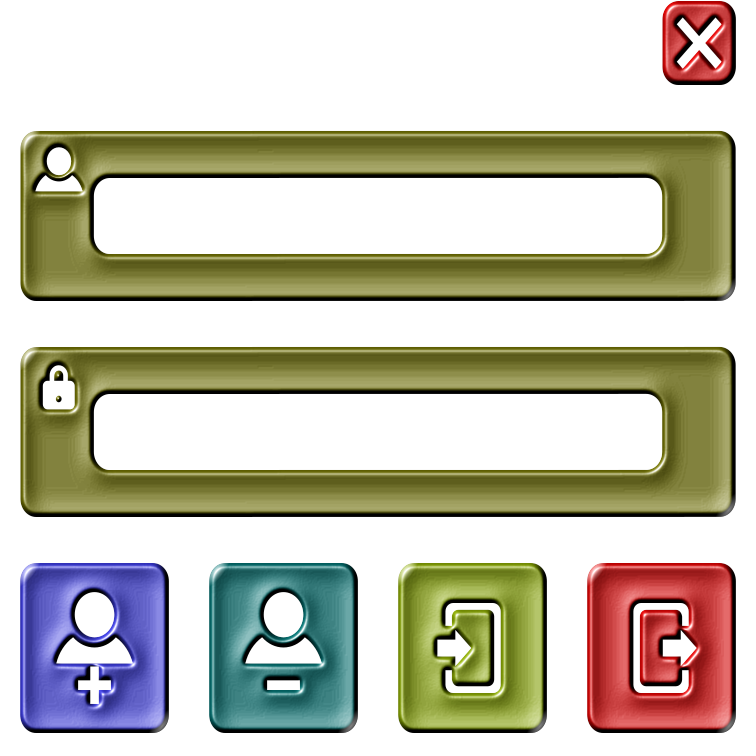
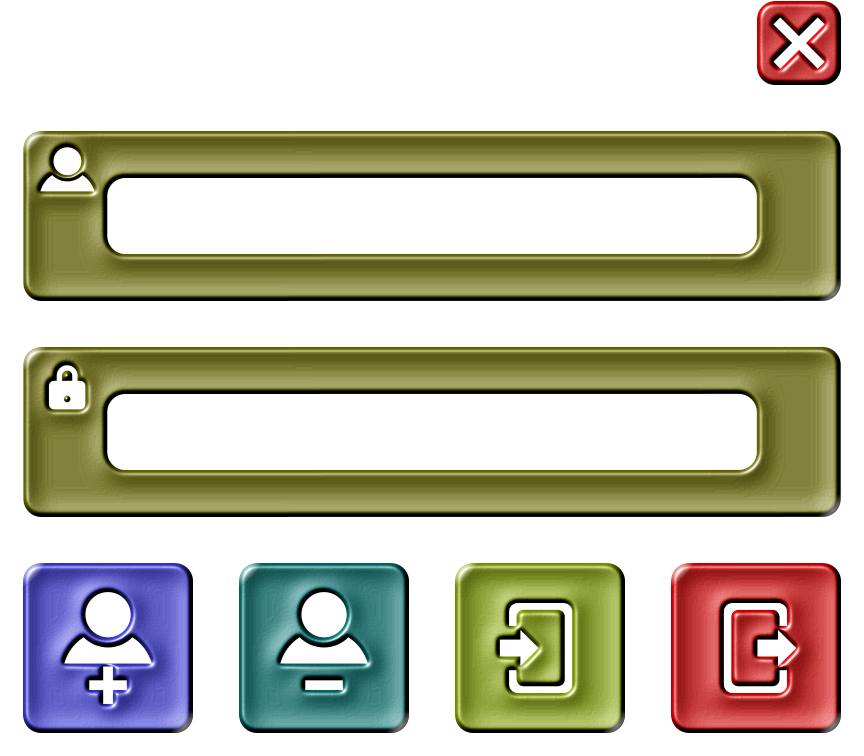
Player account dialog continued

diff --git a/squarely/player_tools.py b/squarely/player_tools.py
@@ -26,15 +26,18 @@ class Rectangle(object):
 
 
 class TextWidget(object):
-    def __init__(self, text, x, y, width, batch):
+    def __init__(self, text, x, y, width, batch, is_password):
+
+        color = (0, 0, 0, 0) if is_password else (255, 255, 255, 255)
+
         self.document = pyglet.text.document.UnformattedDocument(text)
-        self.document.set_style(0, len(self.document.text), dict(color=(255, 255, 255, 255), font_size=18))
+        self.document.set_style(0, len(self.document.text), dict(color=color, font_size=18))
         font = self.document.get_font()
         height = font.ascent - font.descent
 
         self.layout = pyglet.text.layout.IncrementalTextLayout(self.document, width, height, multiline=False,
                                                                batch=batch)
-        self.caret = pyglet.text.caret.Caret(self.layout)
+        self.caret = pyglet.text.caret.Caret(self.layout, color=(255, 255, 255))
 
         self.layout.x = x
         self.layout.y = y

diff --git a/squarely/game_objects.py b/squarely/game_objects.py
@@ -379,11 +379,11 @@ class PlayerDialog(pyglet.sprite.Sprite):
         self.batch = common.player_dialog_batch
 
         self.name_field = TextWidget(common.player.name, int(self.x + self.base_square * 0.6),
-                                     int(self.y + self.base_square * 2.37), 300, self.batch)
+                                     int(self.y + self.base_square * 2.37), 300, self.batch, False)
 
         pswd = common.player.password if common.player.password is not None else ""
         self.pass_field = TextWidget(pswd, int(self.x + self.base_square * 0.6),
-                                     int(self.y + self.base_square * 1.37), 300, self.batch)
+                                     int(self.y + self.base_square * 1.37), 300, self.batch, True)
 
         self.label = pyglet.text.Label(
             common.lang["player_account"],
